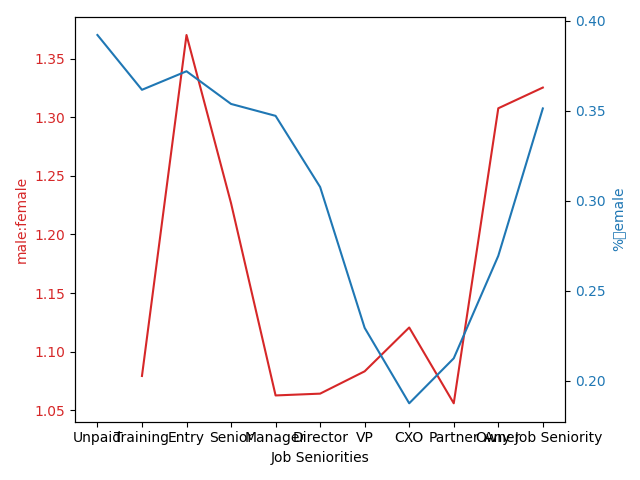
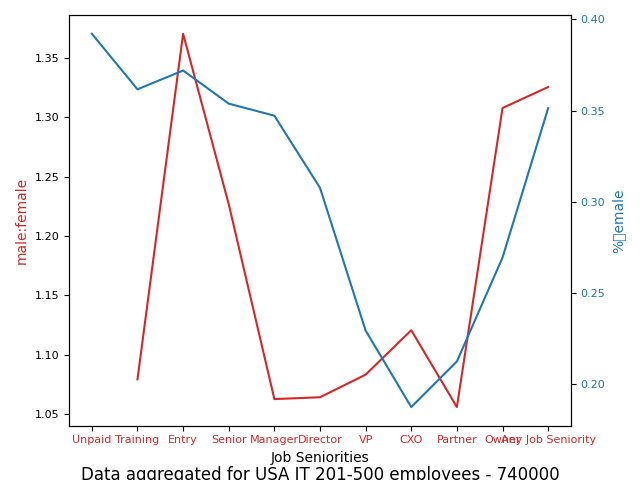
added caption to usa it data figures

diff --git a/scripts/analysis.py b/scripts/analysis.py
@@ -6,7 +6,6 @@ import matplotlib.pyplot as plt
 df = pd.read_csv('intermediate/data_collection_2/temp_USA.csv')
 # rename the column headers
 df.columns = ['Country', 'Gender', 'Sector', 'Job Seniority', 'Company Size', 'Age Ranges', 'Connectivity Status', 'Count']
-print(df['Company Size'].unique())
 
 
 # select parameters
@@ -17,7 +16,6 @@ def df_specifier(df, country, sector, size):
 
 
 def filter_reshape(df, country, sector, size): 
-
     # split data to with connection and any connection
     df_with_connection = df[df['Connectivity Status'] == 'connected to big companies']
     df_any_connection = df[df['Connectivity Status'] == 'connected to any']
@@ -47,14 +45,13 @@ def filter_reshape(df, country, sector, size):
     # df_reshaped.sort_values(by=df_reshaped.index, key=lambda x: x.map(sorting_dict), inplace=True)
     df_reshaped = df_reshaped.sort_index(key=lambda x: x.map(sorting_dict))
 
-
     return df_reshaped
 
 
 def plotter(df): # plot
-    # df = df.drop([0, 1])
-    print(df.head())
-    print(df.index)
+    # set the ticklabel font size globally (i.e. for all figures/subplots in a script) using rcParams:
+    plt.rc('xtick',labelsize=8)
+    plt.rc('ytick',labelsize=8)
 
     # df.index -> df['Job Seniorities']
     # df['Male to Female', 'm:f'] -> df['male:female']
@@ -65,7 +62,7 @@ def plotter(df): # plot
     ax1.set_xlabel('Job Seniorities')
     ax1.set_ylabel('male:female', color=color)
     ax1.plot(df.index, df['Male to Female', 'm:f'], color=color)
-    ax1.tick_params(axis='y', labelcolor=color)
+    ax1.tick_params(axis='x', labelcolor=color)
 
     ax2 = ax1.twinx()  # instantiate a second axes that shares the same x-axis
 
@@ -84,8 +81,12 @@ def plotter(df): # plot
 
 def filter_reshape_plot(df, country, sector, size):
     df = df_specifier(df, country, sector, size) # USA, IT, Big Companies
-    df = filter_reshape(df, country, sector, size) # USA, IT, Big Companies)
+    df = filter_reshape(df, country, sector, size)
     fig = plotter(df)
+    
+    total_count = df.loc['Any Job Seniority':]['Count_any_connection', 'Any Gender'][0]
+    fig_caption = f'Data aggregated for {country} {sector} {size} - {total_count}'
+    plt.figtext(0.5, 0.0001, fig_caption, wrap=True, horizontalalignment='center', fontsize=12)
     
     save_path = f'plots/_{country}_{sector}_{size}.png'
     fig.savefig(save_path)
@@ -98,6 +99,8 @@ def run_analysis():
     # filter_reshape_plot(df, 'USA', 'IT', '10,001+ employees')
     for company_size in company_sizes:
         filter_reshape_plot(df, 'USA', 'IT', company_size)
+
+
     
 run_analysis()
 
